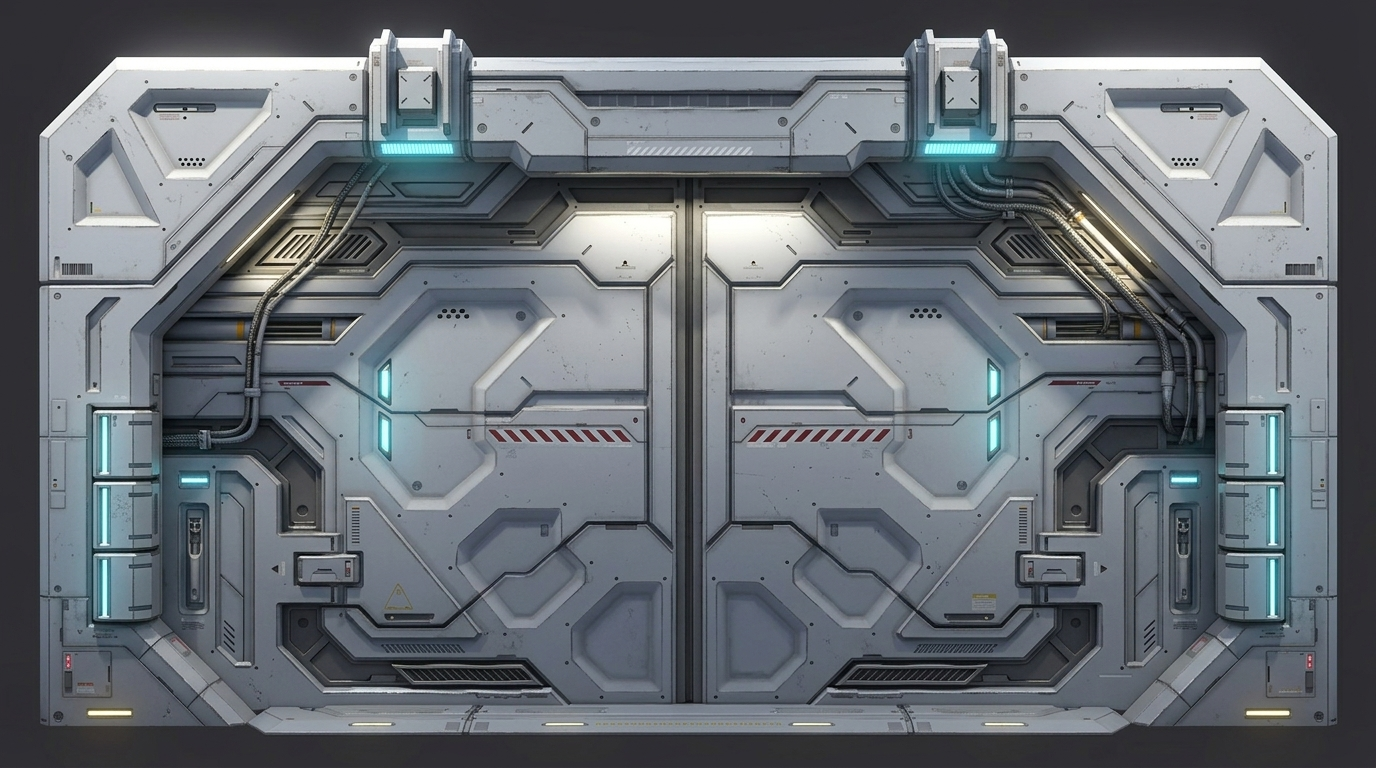
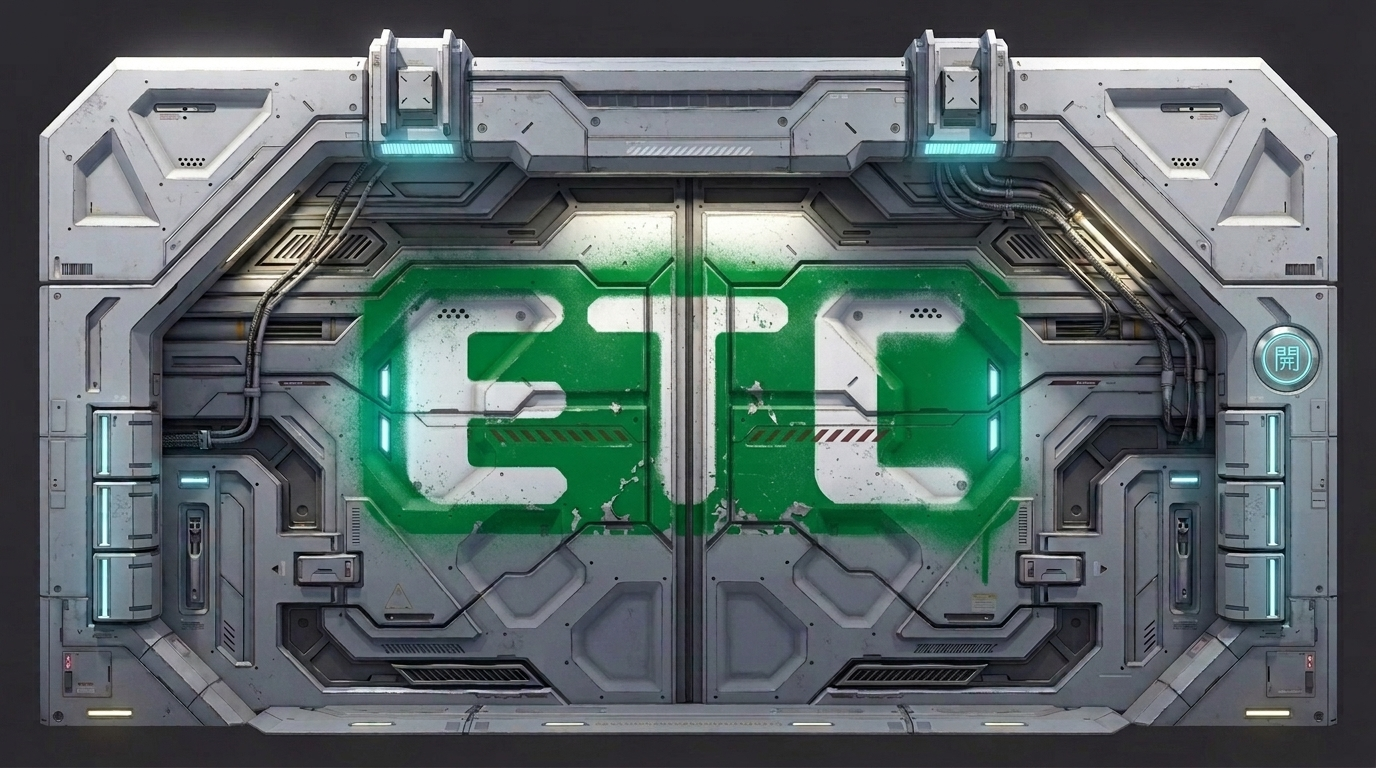
feat: 門面新增 ETC 噴漆塗裝、載入延遲投影、全息收回按鈕與門框一體化「開」實體按鈕

diff --git a/index.html b/index.html
@@ -830,6 +830,146 @@
     }
 
     /* ========================================================
+       門框一體化實體「開」按鈕 (Integrated Bulkhead "開" Switch)
+       與門框金屬裝甲完全融合，精確定位於右側門框專屬按鍵槽
+       ======================================================== */
+    .door-integrated-kai-btn {
+      position: absolute;
+      left: 93.43%;
+      top: 46.74%;
+      transform: translate(-50%, -50%);
+      width: 58px;
+      height: 58px;
+      border-radius: 50%;
+      background: transparent;
+      border: 1.5px solid rgba(0, 242, 254, 0.45);
+      outline: none;
+      cursor: pointer;
+      pointer-events: auto;
+      z-index: 22;
+      box-shadow: 
+        0 0 12px rgba(0, 242, 254, 0.35),
+        inset 0 0 10px rgba(0, 242, 254, 0.25);
+      transition: transform 0.12s cubic-bezier(0.2, 0, 0, 1), box-shadow 0.25s ease, border-color 0.25s ease;
+      display: flex;
+      align-items: center;
+      justify-content: center;
+    }
+
+    .kai-lens-glow {
+      position: absolute;
+      inset: 2px;
+      border-radius: 50%;
+      background: radial-gradient(circle at 45% 45%, rgba(0, 242, 254, 0.25) 0%, rgba(0, 242, 254, 0.05) 60%, transparent 80%);
+      pointer-events: none;
+      transition: all 0.25s ease;
+    }
+
+    .kai-press-ring {
+      position: absolute;
+      inset: -4px;
+      border-radius: 50%;
+      border: 1px dashed rgba(0, 242, 254, 0.3);
+      pointer-events: none;
+      animation: ringSlowRotate 20s linear infinite;
+    }
+
+    @keyframes ringSlowRotate {
+      from { transform: rotate(0deg); }
+      to { transform: rotate(360deg); }
+    }
+
+    /* 懸浮效果：微光增強，透鏡發亮 */
+    .door-integrated-kai-btn:hover {
+      border-color: #00f2fe;
+      box-shadow: 
+        0 0 24px rgba(0, 242, 254, 0.85),
+        0 0 45px rgba(0, 242, 254, 0.4),
+        inset 0 0 18px rgba(0, 242, 254, 0.6);
+      transform: translate(-50%, -50%) scale(1.06);
+    }
+    .door-integrated-kai-btn:hover .kai-lens-glow {
+      background: radial-gradient(circle at 45% 45%, rgba(0, 242, 254, 0.5) 0%, rgba(0, 242, 254, 0.18) 70%, transparent 90%);
+    }
+
+    /* 點擊按下：逼真鍵程下陷 */
+    .door-integrated-kai-btn:active,
+    .door-integrated-kai-btn.pressed {
+      transform: translate(-50%, -50%) scale(0.92);
+      border-color: #ffffff;
+      box-shadow: 
+        inset 0 4px 14px rgba(0, 0, 0, 0.9),
+        0 0 15px rgba(0, 242, 254, 0.9);
+    }
+
+    /* 收起投影時：柔和呼吸提示 */
+    .door-integrated-kai-btn.pulse-ready {
+      animation: kaiIntegratedBreathe 2.4s infinite alternate ease-in-out;
+    }
+
+    @keyframes kaiIntegratedBreathe {
+      0% {
+        border-color: rgba(0, 242, 254, 0.3);
+        box-shadow: 0 0 8px rgba(0, 242, 254, 0.2), inset 0 0 6px rgba(0, 242, 254, 0.15);
+      }
+      100% {
+        border-color: rgba(0, 242, 254, 0.85);
+        box-shadow: 0 0 20px rgba(0, 242, 254, 0.75), inset 0 0 14px rgba(0, 242, 254, 0.4);
+      }
+    }
+
+    /* 懸浮微型 HUD 提示標籤 */
+    .kai-hud-tag {
+      position: absolute;
+      bottom: -22px;
+      left: 50%;
+      transform: translateX(-50%);
+      font-family: 'Share Tech Mono', monospace;
+      font-size: 9px;
+      letter-spacing: 2px;
+      color: #a5f3fc;
+      background: rgba(8, 24, 46, 0.85);
+      border: 1px solid rgba(0, 242, 254, 0.4);
+      padding: 2px 7px;
+      border-radius: 4px;
+      white-space: nowrap;
+      pointer-events: none;
+      opacity: 0;
+      transition: opacity 0.2s ease, transform 0.2s ease;
+      text-shadow: 0 0 8px rgba(0, 242, 254, 0.8);
+    }
+    .door-integrated-kai-btn:hover .kai-hud-tag {
+      opacity: 1;
+      transform: translateX(-50%) translateY(2px);
+    }
+
+    /* HUD 頂部小關閉/收回按鈕 */
+    .hud-close-btn {
+      position: absolute;
+      top: 12px;
+      right: 14px;
+      background: rgba(15, 23, 42, 0.6);
+      border: 1px solid rgba(0, 242, 254, 0.35);
+      color: #67e8f9;
+      width: 24px;
+      height: 24px;
+      border-radius: 4px;
+      cursor: pointer;
+      display: flex;
+      align-items: center;
+      justify-content: center;
+      font-size: 12px;
+      transition: all 0.2s;
+      z-index: 5;
+    }
+    .hud-close-btn:hover {
+      background: rgba(244, 63, 94, 0.25);
+      border-color: #f43f5e;
+      color: #f43f5e;
+      box-shadow: 0 0 10px rgba(244, 63, 94, 0.6);
+    }
+
+    /* ========================================================
        5. 閉門重置列 (全開後浮現於底端)
        ======================================================== */
     .reclose-bar {
@@ -1127,6 +1267,13 @@
       <div class="neon-pillar-strip neon-pillar-strip-2 right"></div>
       <div class="neon-pillar-strip neon-pillar-strip-3 right"></div>
     </div>
+
+    <!-- 門框一體化實體「開」按鈕 (與門框金屬裝甲完全融合，精確對位門框專屬按鍵槽) -->
+    <button class="door-integrated-kai-btn pulse-ready" id="btnKai" onclick="handleKaiButtonClick()" title="按下門框按鈕：展開全息帳密認證">
+      <span class="kai-lens-glow"></span>
+      <span class="kai-press-ring"></span>
+      <span class="kai-hud-tag">手動開門 MANUAL</span>
+    </button>
   </div>
 
   <!-- 門頂指示燈組 (固定於天花板中心，絕不被投影儀遮蔽) -->
@@ -1145,8 +1292,8 @@
   <!-- 開門洩壓白霧蒸氣畫布 -->
   <canvas id="steamCanvas"></canvas>
 
-  <!-- 3. 頂部擬真實體全息投影燈組 (開門時自動收合縮回天花板) -->
-  <div class="projector-assembly" id="projectorAssembly">
+  <!-- 3. 頂部擬真實體全息投影燈組 (預設收起，載入延遲1秒後滑出) -->
+  <div class="projector-assembly retracted" id="projectorAssembly">
     <div class="projector-mount">
       <div class="projector-label">COHERENT OPTICAL EMITTER // PROJ-04</div>
       <div class="projector-lens-box">
@@ -1161,8 +1308,9 @@
     <div class="beam-laser-scanner"></div>
   </div>
 
-  <!-- 4. 懸浮全息投影驗證 HUD 面板 -->
-  <div class="hologram-hud" id="holoHud">
+  <!-- 4. 懸浮全息投影驗證 HUD 面板 (預設隱藏，載入延遲1秒後投影) -->
+  <div class="hologram-hud dismiss" id="holoHud">
+    <button class="hud-close-btn" onclick="hideHoloProjection()" title="收回全息投影 (檢視大門全貌)">✕</button>
     <div class="hud-bracket hb-tl"></div>
     <div class="hud-bracket hb-tr"></div>
     <div class="hud-bracket hb-bl"></div>
@@ -1409,6 +1557,7 @@
       // 2. 嚴格符合邏輯：開門前全息 HUD 消散，整座投影燈具與光束完全縮回天花板收納槽！
       holoHud.classList.add("dismiss");
       projectorAssembly.classList.add("retracted");
+      if (btnKai) btnKai.classList.remove("pulse-ready");
 
       // 3. 噴射白霧氣爆
       setTimeout(() => {
@@ -1487,14 +1636,70 @@
       if (hudStatusBar) hudStatusBar.className = "hud-status-bar";
       holoHud.classList.remove("alarm-shake");
 
-      projectorAssembly.classList.remove("retracted");
-      setTimeout(() => {
-        holoHud.classList.remove("dismiss");
-        hudStatus.textContent = "AWAITING CREDENTIALS...";
-        playTone(660, 'sine', 0.15, 0.1);
-      }, 400);
+      showHoloProjection();
     }, 3800);
   }
+
+  /* ====================================================================
+     門框實體「開」按鈕：全息投影控制 (延遲載入、手動投影與 HUD 收回)
+     ==================================================================== */
+  const btnKai = document.getElementById("btnKai");
+
+  function playMechanicalSwitchSound() {
+    playTone(160, 'sawtooth', 0.06, 0.0, 0.2);
+    playTone(90, 'sine', 0.12, 0.02, 0.28);
+    playTone(1600, 'sine', 0.04, 0.01, 0.12);
+  }
+
+  function handleKaiButtonClick() {
+    // 逼真物理按壓聲音與觸覺回饋
+    playMechanicalSwitchSound();
+
+    if (btnKai) {
+      btnKai.classList.add("pressed");
+      setTimeout(() => btnKai.classList.remove("pressed"), 180);
+    }
+
+    // 觸發全息投影輸入
+    showHoloProjection();
+  }
+
+  function showHoloProjection() {
+    if (stage.classList.contains("doors-sliding") || stage.classList.contains("camera-dolly-in")) {
+      return; // 艙門已開啟或處於推進狀態不開啟全息
+    }
+
+    projectorAssembly.classList.remove("retracted");
+
+    setTimeout(() => {
+      holoHud.classList.remove("dismiss");
+      if (btnKai) {
+        btnKai.classList.remove("pulse-ready");
+      }
+      playTone(660, 'sine', 0.15, 0.05);
+      playTone(880, 'sine', 0.18, 0.15);
+      if (userInput) userInput.focus();
+    }, 350);
+  }
+
+  function hideHoloProjection() {
+    holoHud.classList.add("dismiss");
+    projectorAssembly.classList.add("retracted");
+
+    if (btnKai) {
+      btnKai.classList.add("pulse-ready");
+    }
+
+    playTone(440, 'sine', 0.12, 0.0);
+    playTone(330, 'sine', 0.18, 0.08);
+  }
+
+  // 網頁載入時：延遲 1 秒 (1000ms) 後自動投影輸入帳號密碼
+  window.addEventListener("load", () => {
+    setTimeout(() => {
+      showHoloProjection();
+    }, 1000);
+  });
 
   /* ====================================================================
      E. 深空天體鎖定與互動 (月球：案件管理系統 / 地球：報告產生器)
